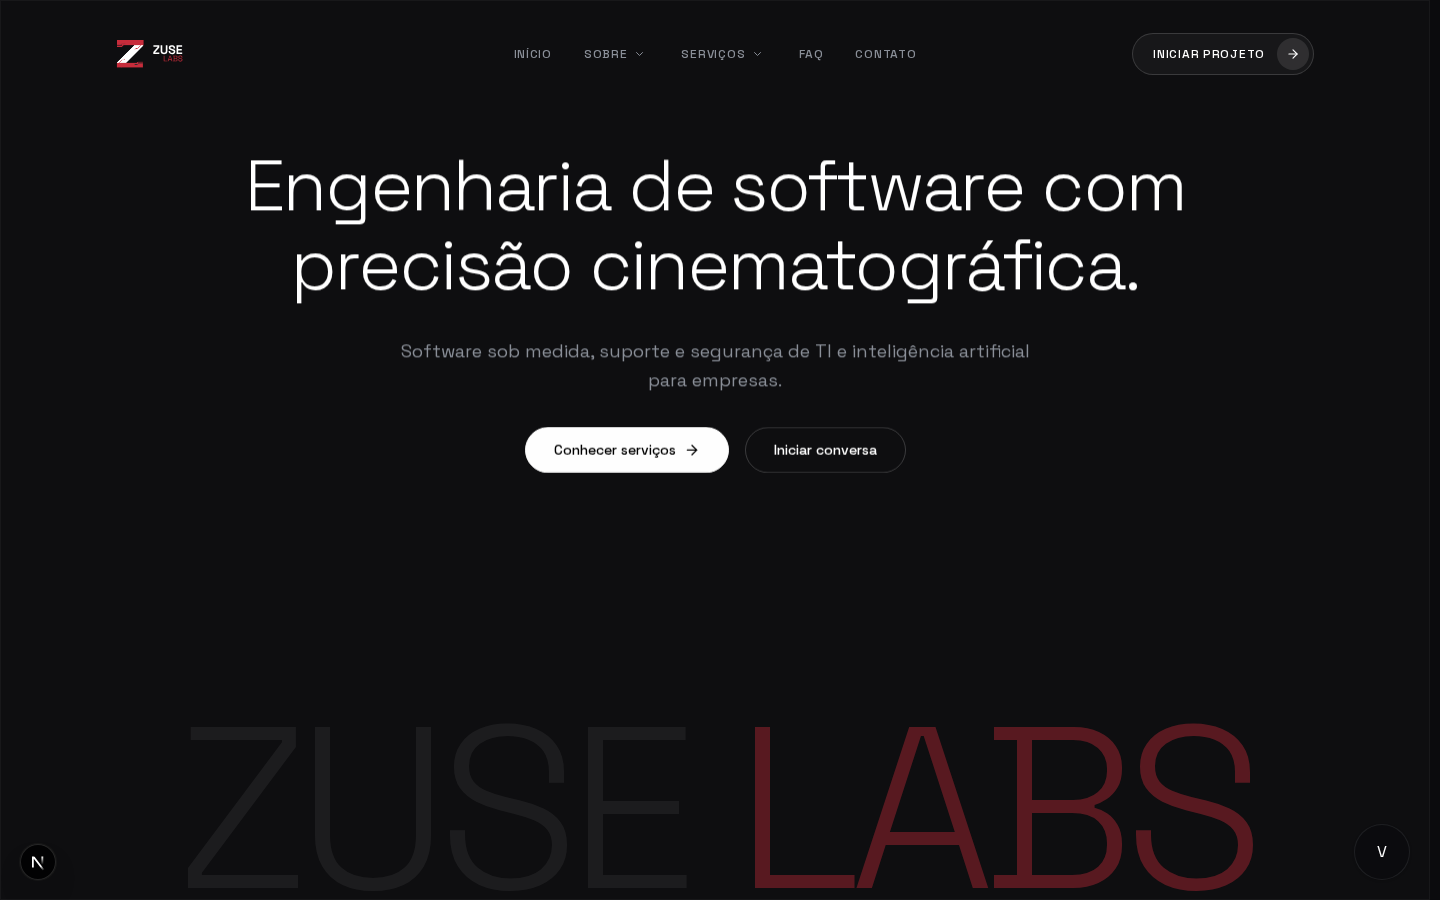
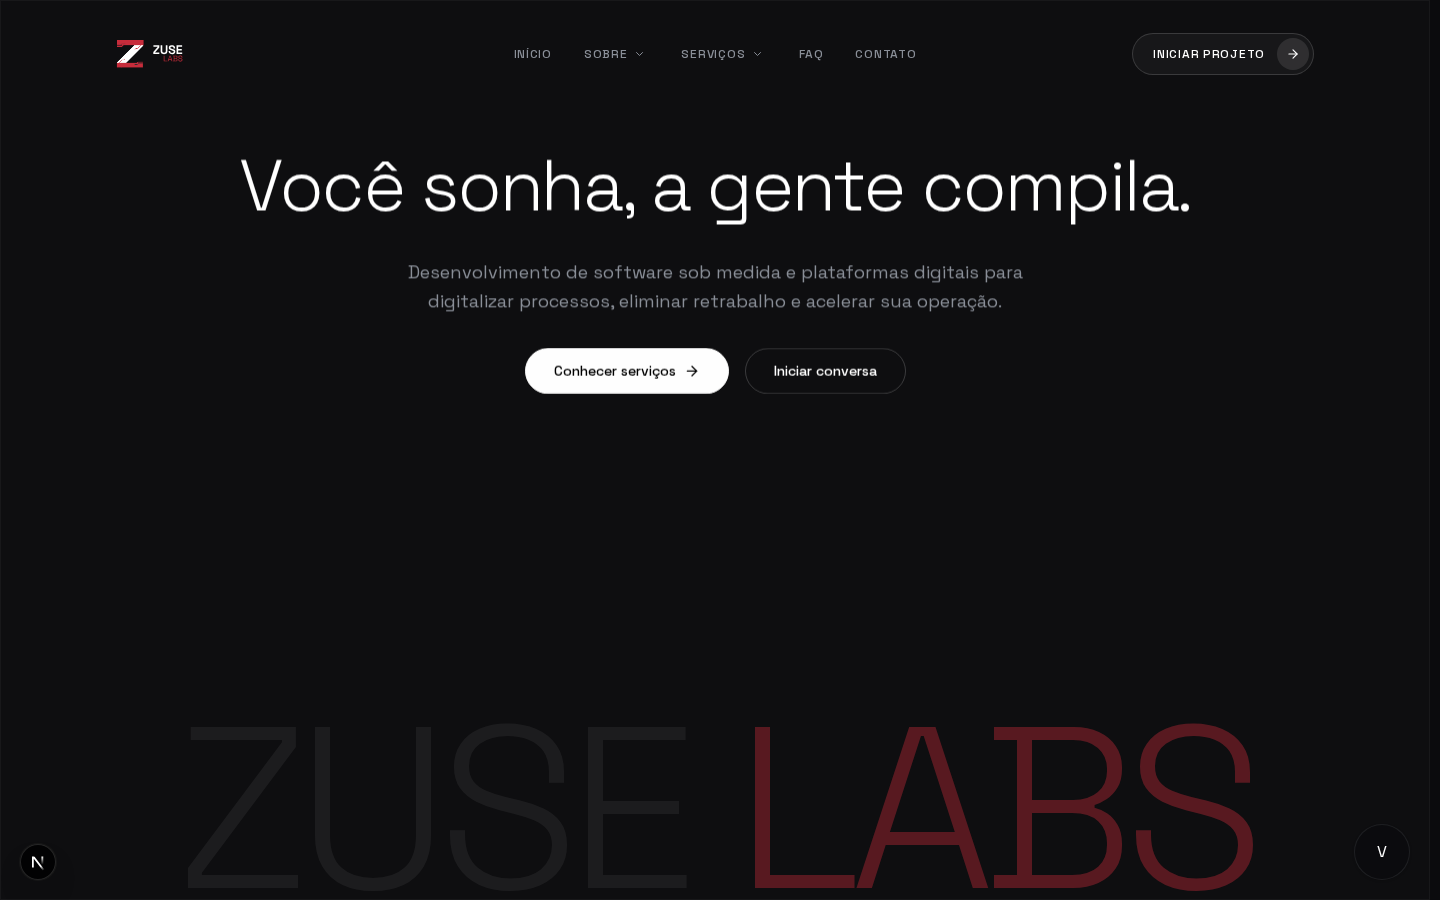
feat(v3): manifesto alinhado com bordão 'Você sonha, a gente compila' e escala tipográfica balanceada

Changed region(s): [[0.1562, 0.1556, 0.8438, 0.3422], [0.2812, 0.3733, 0.7188, 0.4356], [0.3438, 0.4667, 0.625, 0.5289]]

diff --git a/components/sections/manifesto-section.tsx b/components/sections/manifesto-section.tsx
@@ -5,42 +5,37 @@ import { Container } from "@/components/layout/container"
 import { gsap, ScrollTrigger, usePrefersReducedMotion } from "@/lib/motion"
 
 const MANIFESTO_WORDS: { text: string; highlight?: boolean }[] = [
-  { text: "ACREDITAMOS", highlight: false },
-  { text: "QUE", highlight: false },
-  { text: "CÓDIGO", highlight: false },
-  { text: "BEM", highlight: false },
-  { text: "ESCRITO", highlight: false },
-  { text: "É", highlight: false },
-  { text: "UM", highlight: false },
-  { text: "ATIVO", highlight: true },
-  { text: "ESTRATÉGICO.", highlight: true },
-  { text: "REJEITAMOS", highlight: false },
-  { text: "SOLUÇÕES", highlight: false },
-  { text: "IMPROVISADAS,", highlight: false },
-  { text: "COMPLEXIDADE", highlight: false },
-  { text: "DESNECESSÁRIA", highlight: false },
-  { text: "E", highlight: false },
-  { text: "PROMESSAS", highlight: false },
-  { text: "VAZIAS.", highlight: false },
-  { text: "NOSSA", highlight: false },
-  { text: "ENGENHARIA", highlight: false },
-  { text: "OPERA", highlight: false },
-  { text: "COM", highlight: false },
-  { text: "MÉTODO,", highlight: true },
-  { text: "DISCRIÇÃO", highlight: false },
-  { text: "E", highlight: false },
-  { text: "PRECISÃO", highlight: true },
-  { text: "PARA", highlight: false },
-  { text: "QUE", highlight: false },
-  { text: "SUA", highlight: false },
-  { text: "TECNOLOGIA", highlight: false },
-  { text: "OPERE", highlight: false },
+  { text: "VOCÊ", highlight: false },
+  { text: "SONHA,", highlight: true },
+  { text: "A", highlight: false },
+  { text: "GENTE", highlight: false },
+  { text: "COMPILA.", highlight: true },
+  { text: "TRANSFORMAMOS", highlight: false },
+  { text: "DESAFIOS", highlight: false },
+  { text: "OPERACIONAIS", highlight: false },
+  { text: "EM", highlight: false },
+  { text: "SISTEMAS", highlight: true },
+  { text: "SOB", highlight: true },
+  { text: "MEDIDA.", highlight: true },
+  { text: "DA", highlight: false },
+  { text: "DIGITALIZAÇÃO", highlight: false },
   { text: "DE", highlight: false },
-  { text: "FORMA", highlight: false },
-  { text: "ININTERRUPTA,", highlight: true },
-  { text: "SEGURA", highlight: false },
+  { text: "PROCESSOS", highlight: false },
+  { text: "À", highlight: false },
+  { text: "RETAGUARDA", highlight: true },
+  { text: "CRÍTICA,", highlight: false },
+  { text: "CRIAMOS", highlight: false },
+  { text: "PLATAFORMAS", highlight: false },
+  { text: "QUE", highlight: false },
+  { text: "ELIMINAM", highlight: false },
+  { text: "RETRABALHO", highlight: false },
   { text: "E", highlight: false },
-  { text: "LONGEVA.", highlight: true },
+  { text: "LEVAM", highlight: false },
+  { text: "SEU", highlight: false },
+  { text: "NEGÓCIO", highlight: false },
+  { text: "AO", highlight: false },
+  { text: "PRÓXIMO", highlight: true },
+  { text: "NÍVEL.", highlight: true },
 ]
 
 export function ManifestoSection() {
@@ -58,12 +53,12 @@ export function ManifestoSection() {
     const words = wordsContainerRef.current.querySelectorAll(".manifesto-word")
 
     const ctx = gsap.context(() => {
-      // Pin do Manifesto em 100vh com iluminação sequencial por scroll (estilo Lando Norris)
+      // Pin do Manifesto em 100vh com revelação sequencial e suave
       const tl = gsap.timeline({
         scrollTrigger: {
           trigger: container,
           start: "top top",
-          end: `+=${window.innerHeight * 1.8}`,
+          end: `+=${window.innerHeight * 1.5}`,
           pin: pin,
           scrub: 0.6,
           anticipatePin: 1,
@@ -77,10 +72,10 @@ export function ManifestoSection() {
           {
             opacity: 1,
             color: isHighlight ? "#c72c3b" : "#ffffff",
-            duration: 0.25,
+            duration: 0.2,
             ease: "power2.out",
           },
-          ">+=0.04",
+          ">+=0.03",
         )
       })
     }, containerRef)
@@ -92,11 +87,11 @@ export function ManifestoSection() {
     return (
       <section
         id="manifesto"
-        className="flex min-h-[100svh] flex-col justify-center border-b border-[#2b2d31] bg-[#0b0b0d] px-6 py-20 text-white"
-        aria-label="Manifesto de Engenharia"
+        className="flex min-h-[100svh] flex-col justify-center border-b border-[#2b2d31] bg-[#0b0b0d] px-6 py-16 text-white"
+        aria-label="Manifesto Zuse Labs"
       >
-        <Container className="max-w-6xl">
-          <div className="flex flex-wrap gap-x-4 gap-y-3 font-sans text-3xl font-light uppercase tracking-[-0.03em] leading-[1.08] sm:text-5xl md:text-6xl lg:text-7xl xl:text-8xl">
+        <Container className="max-w-4xl text-center">
+          <div className="flex flex-wrap justify-center gap-x-2.5 gap-y-2 font-sans text-2xl font-light uppercase tracking-[-0.02em] leading-[1.35] sm:text-3xl md:text-4xl lg:text-5xl">
             {MANIFESTO_WORDS.map((w, i) => (
               <span
                 key={i}
@@ -117,13 +112,13 @@ export function ManifestoSection() {
         ref={pinRef}
         id="manifesto"
         className="relative flex h-screen w-full items-center justify-center overflow-hidden border-b border-[#2b2d31] bg-[#0b0b0d] px-6 text-white"
-        aria-label="Manifesto de Engenharia"
+        aria-label="Manifesto Zuse Labs"
       >
-        <Container className="max-w-6xl">
-          {/* Tipografia monumental estilo Lando Norris — pura, sem caixas/cards ou dados de sistema */}
+        <Container className="max-w-4xl text-center">
+          {/* Tipografia editorial balanceada em 100vh com revelação por scroll */}
           <div
             ref={wordsContainerRef}
-            className="flex flex-wrap gap-x-3.5 gap-y-2.5 font-sans text-3xl font-light uppercase tracking-[-0.03em] leading-[1.08] sm:text-5xl md:text-6xl lg:text-7xl xl:text-8xl select-none"
+            className="flex flex-wrap justify-center gap-x-2.5 gap-y-2 font-sans text-2xl font-light uppercase tracking-[-0.02em] leading-[1.35] sm:text-3xl md:text-4xl lg:text-5xl select-none"
           >
             {MANIFESTO_WORDS.map((w, i) => (
               <span

diff --git a/data/site.ts b/data/site.ts
@@ -5,9 +5,9 @@ export const siteFlags = {
 
 export const siteConfig = {
   name: "Zuse Labs",
-  tagline: "Engenharia de software com precisão cinematográfica.",
+  tagline: "Você sonha, a gente compila.",
   description:
-    "Software sob medida, suporte e segurança de TI e inteligência artificial para empresas que exigem excelência técnica e confiabilidade operacional.",
+    "Desenvolvimento de software sob medida, plataformas digitais e retaguarda tecnológica para digitalizar processos e levar empresas ao próximo nível.",
   url: process.env.NEXT_PUBLIC_SITE_URL || "https://zuselabs.com",
   contact: {
     email: process.env.NEXT_PUBLIC_CONTACT_EMAIL || "",
@@ -34,9 +34,9 @@ export const siteConfig = {
 
 export const landingContent = {
   hero: {
-    headline: "Engenharia de software com precisão cinematográfica.",
+    headline: "Você sonha, a gente compila.",
     subtitle:
-      "Software sob medida, suporte e segurança de TI e inteligência artificial para empresas.",
+      "Desenvolvimento de software sob medida e plataformas digitais para digitalizar processos, eliminar retrabalho e acelerar sua operação.",
     primaryCta: "Iniciar conversa",
     secondaryCta: "Conhecer serviços",
   },
